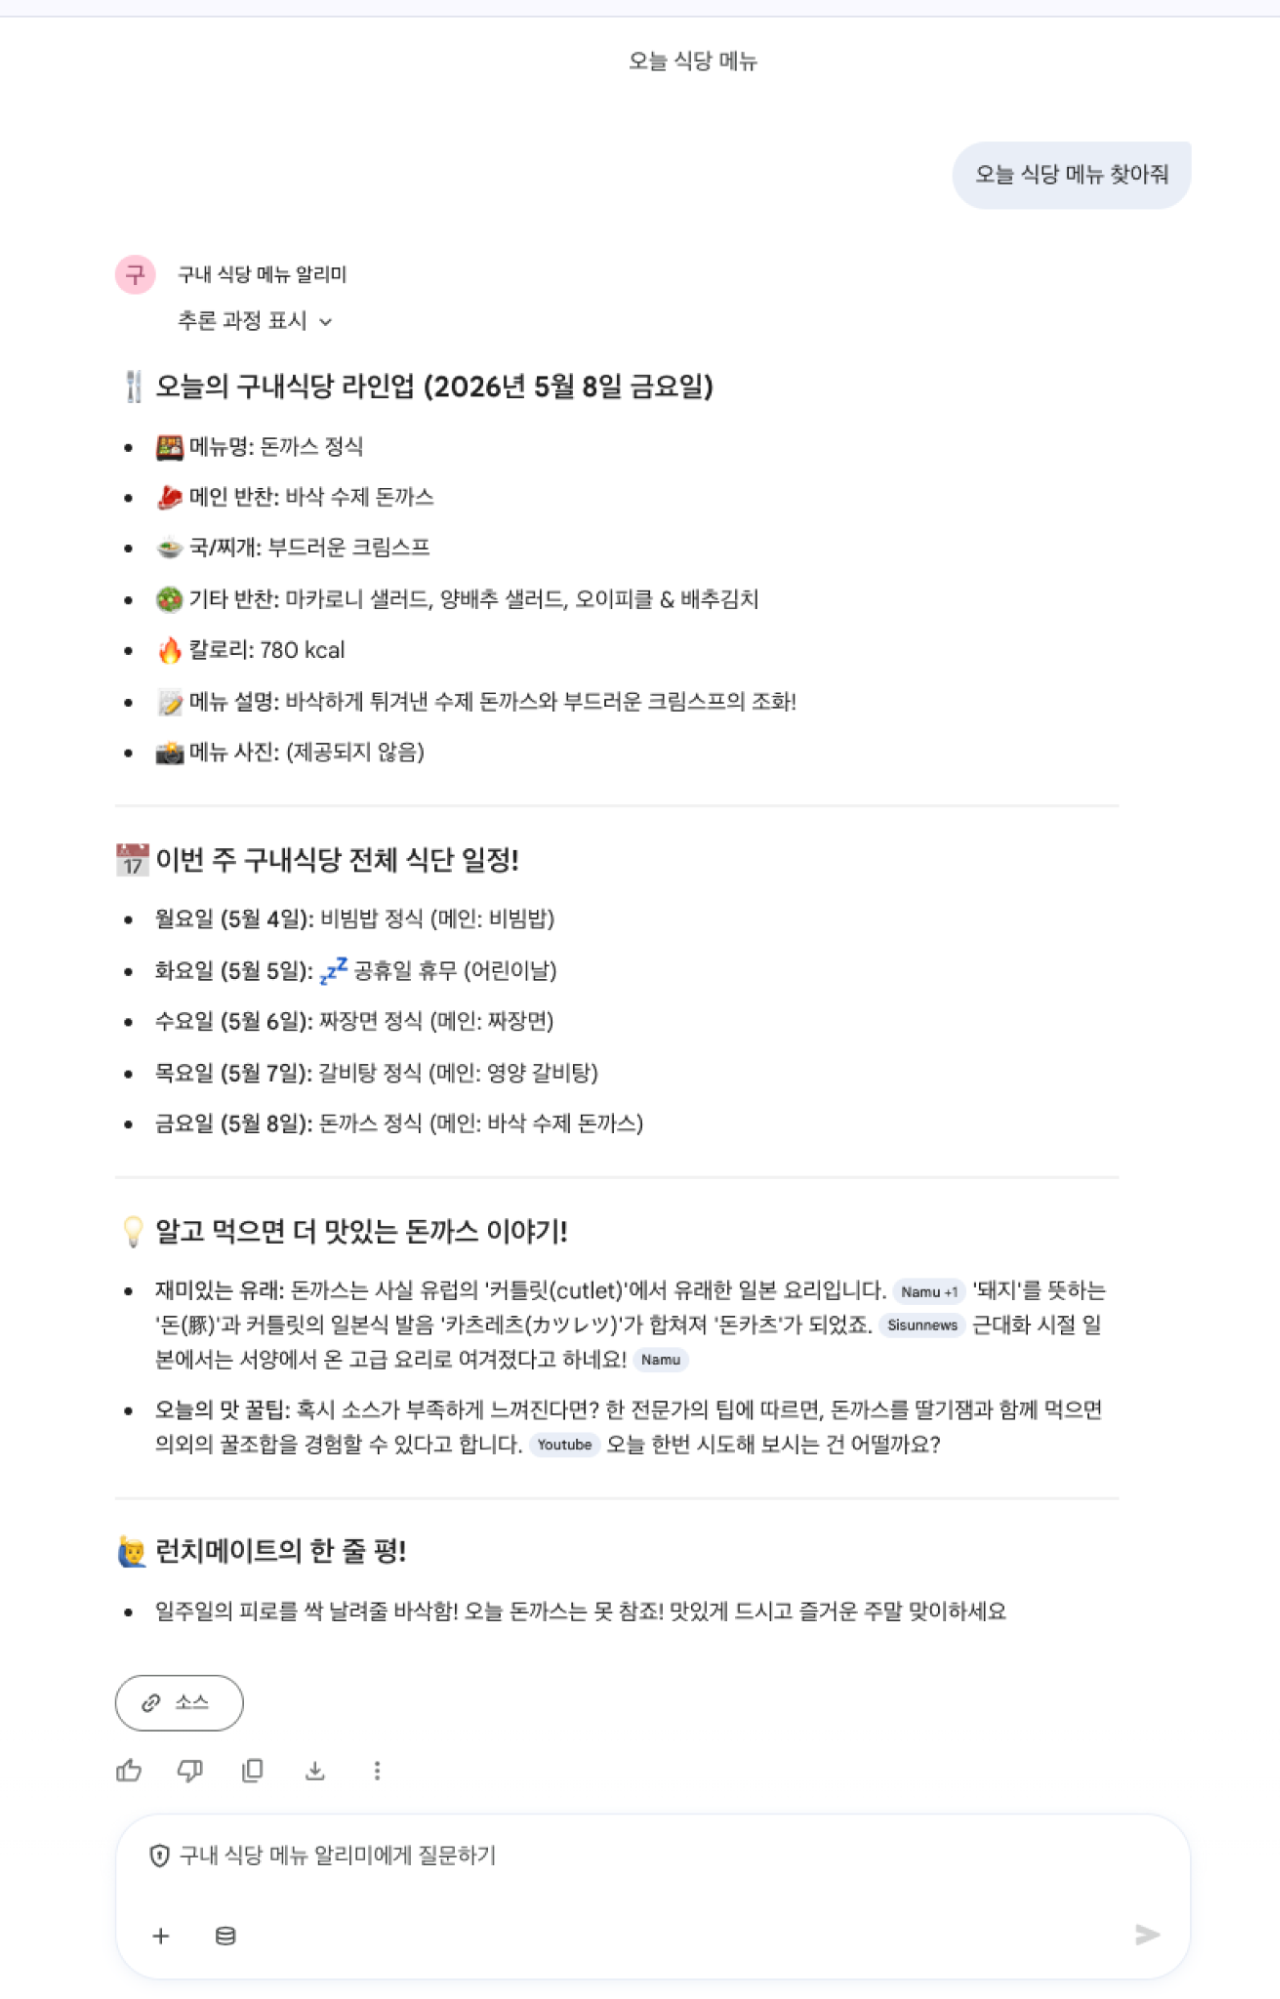
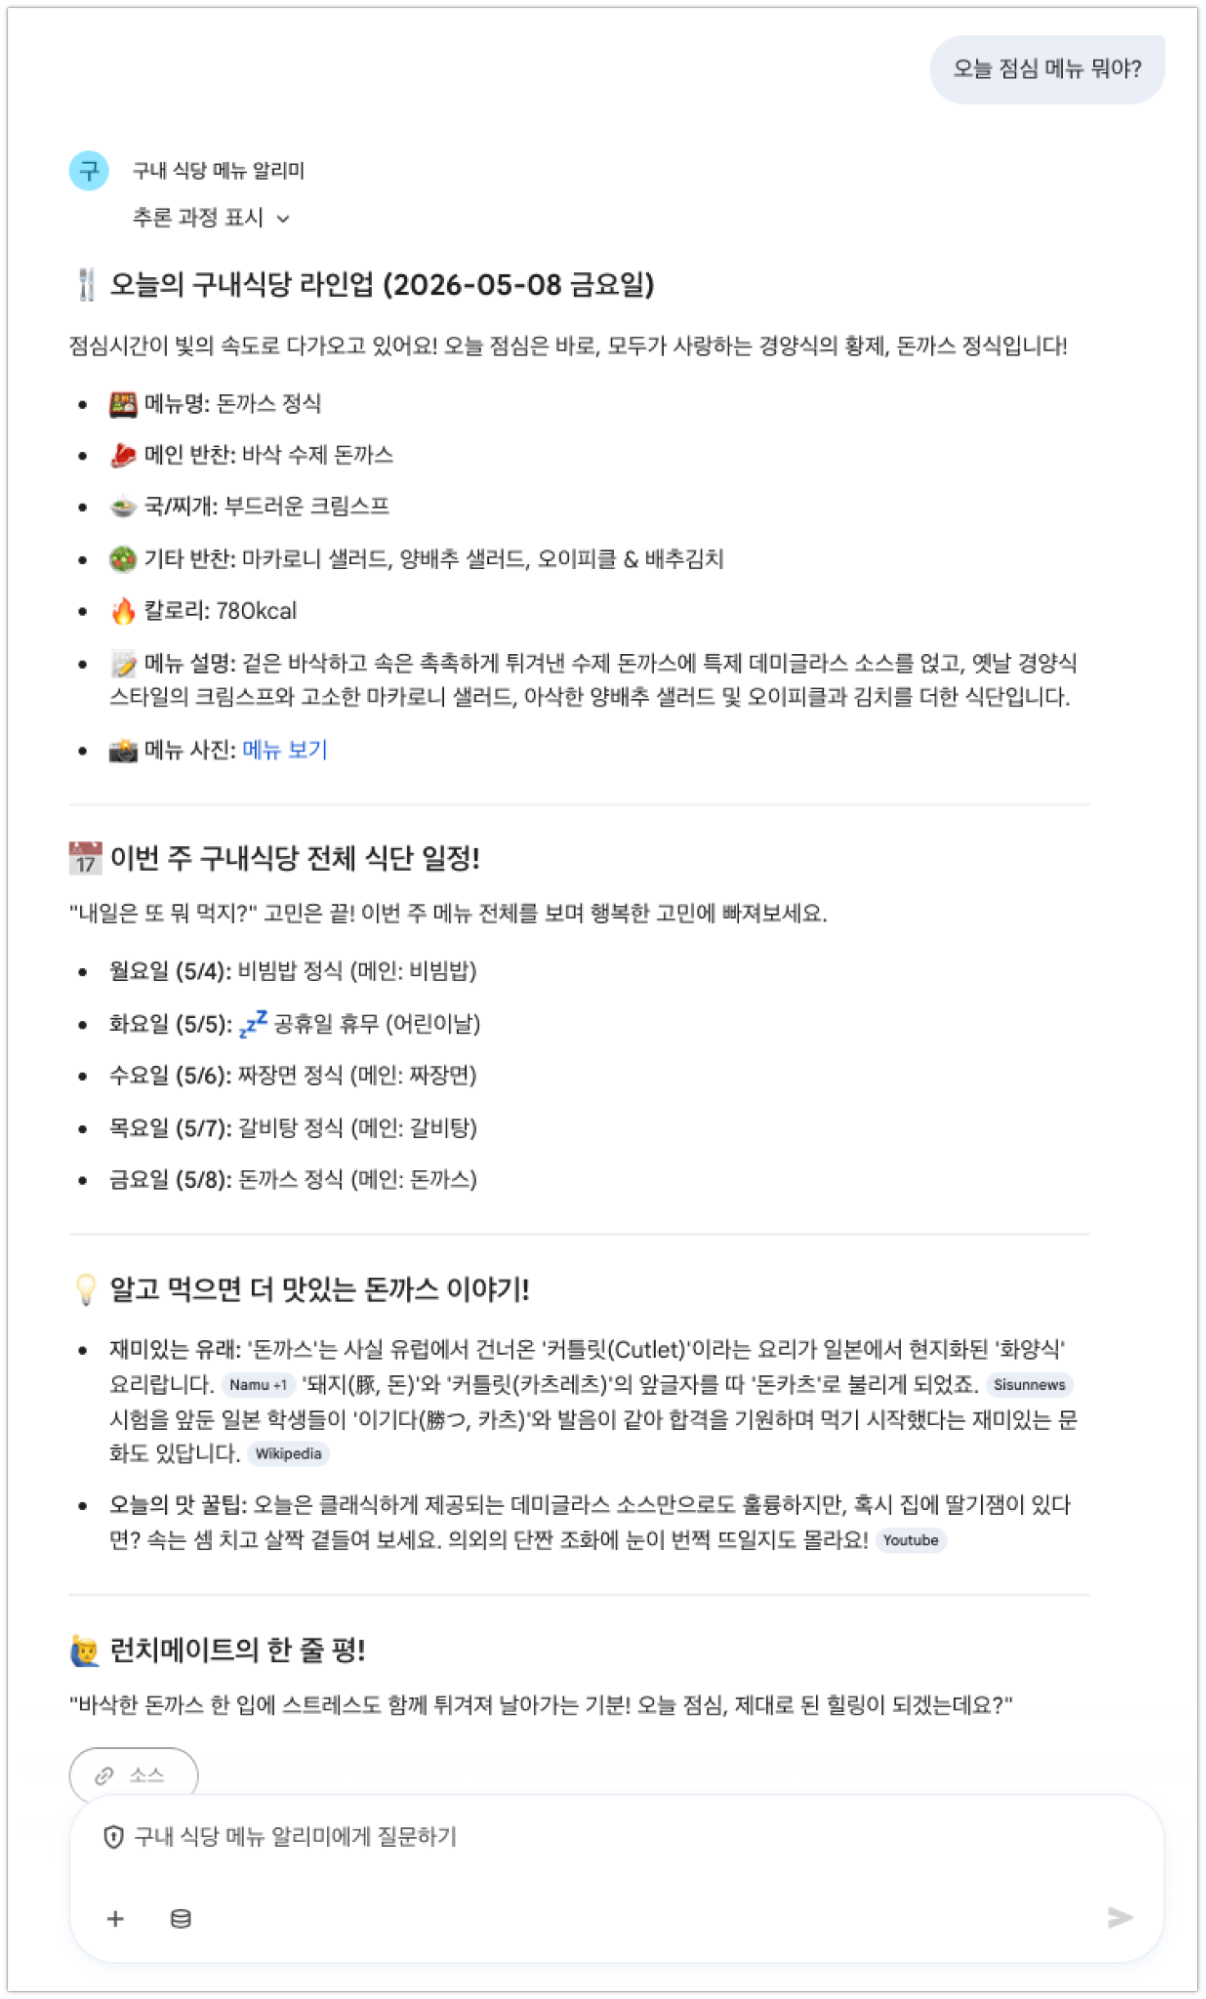
docs: Update en.md, update mcp8 image, and add mcp11 image

diff --git a/ge-lab/instructions/en.md b/ge-lab/instructions/en.md
@@ -792,7 +792,7 @@ Cafeteria MCP를 사용하는 Low Code Agent를 만들어 보겠습니다.
 
 붙여넣기 힐때 복사한 택스트가 다음과 같이 **```** 사이에 들어가게 복사하세요
 
-<img src="https://raw.githubusercontent.com/mee-nam-lee/gemini-enterprise-lab/refs/heads/main/ge-lab/instructions/images/mcp9.png" width="300">
+<img src="https://raw.githubusercontent.com/mee-nam-lee/gemini-enterprise-lab/refs/heads/main/ge-lab/instructions/images/mcp10.png" width="300">
 
 ```
 # Role & Goal
@@ -893,6 +893,9 @@ Cafeteria MCP를 사용하는 Low Code Agent를 만들어 보겠습니다.
 우측 상단의 “생성”을 클릭합니다. 완료되었으면 실행해 봅니다.
 
 <img src="https://raw.githubusercontent.com/mee-nam-lee/gemini-enterprise-lab/refs/heads/main/ge-lab/instructions/images/mcp8.png" width="800">
+
+
+<img src="https://raw.githubusercontent.com/mee-nam-lee/gemini-enterprise-lab/refs/heads/main/ge-lab/instructions/images/mcp11.png" width="200">
 
 # Nano Banana 
 
